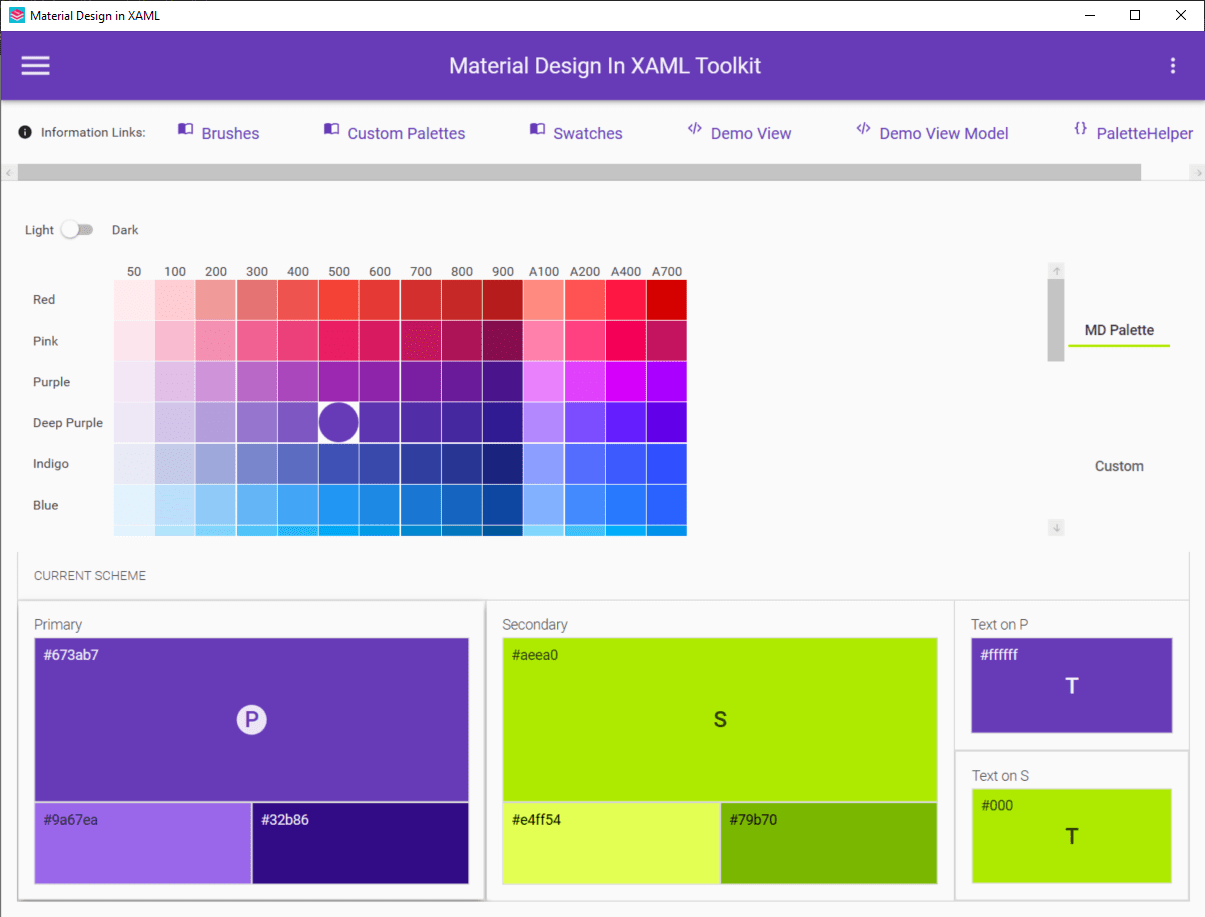
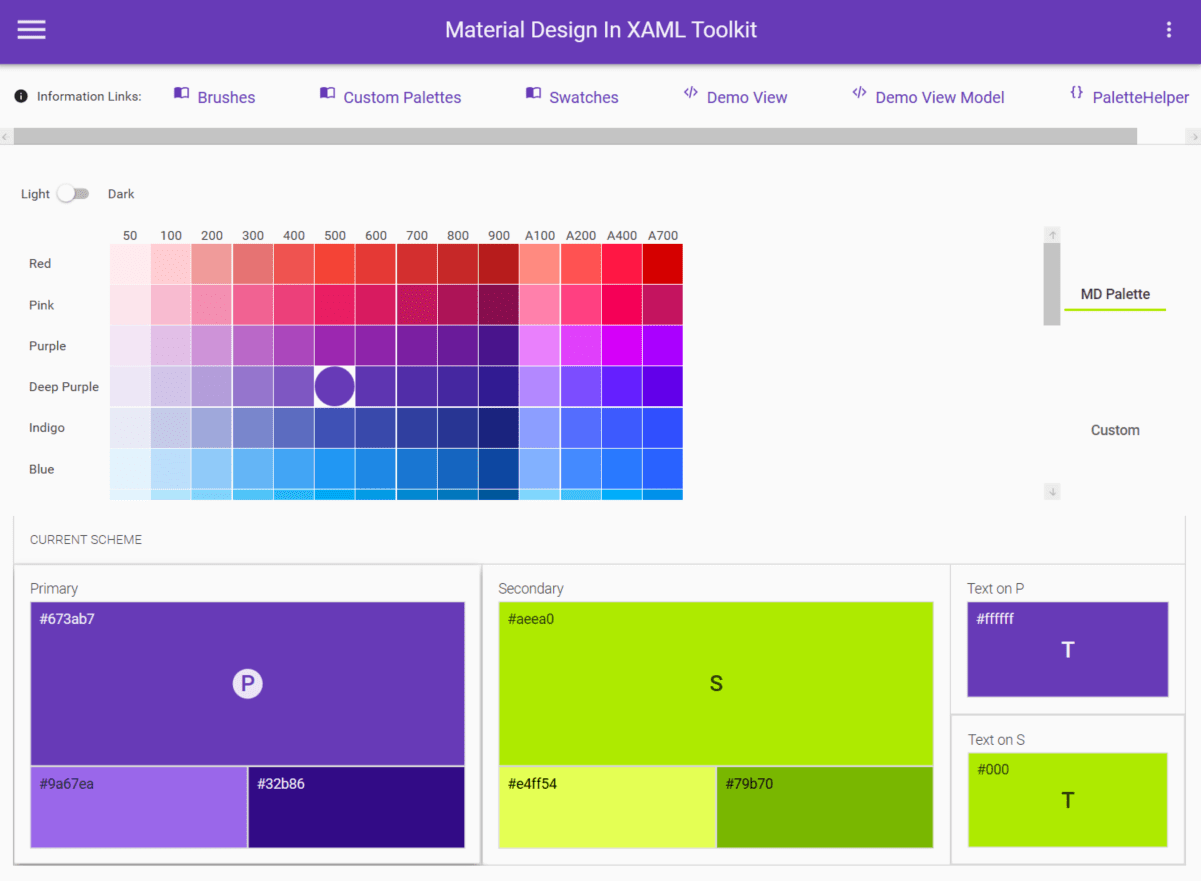
Improve demo app screenshots (#1585)
* Remove Windows10 titlebar from demo app screenshots

* Add Chips screenshot to README.md file

diff --git a/README.md b/README.md
@@ -95,6 +95,8 @@ To load the source project you will need Visual Studio 2019. Don't worry if you 
 
 ![Alt text](web/images/screen-sliders.png "Sliders")
 
+![Alt text](web/images/screen-chips.png "Chips")
+
 ![Alt text](web/images/screen-typography.png "Typography")
 
 ![Alt text](web/images/screen-groupbox.png "Group Box")
